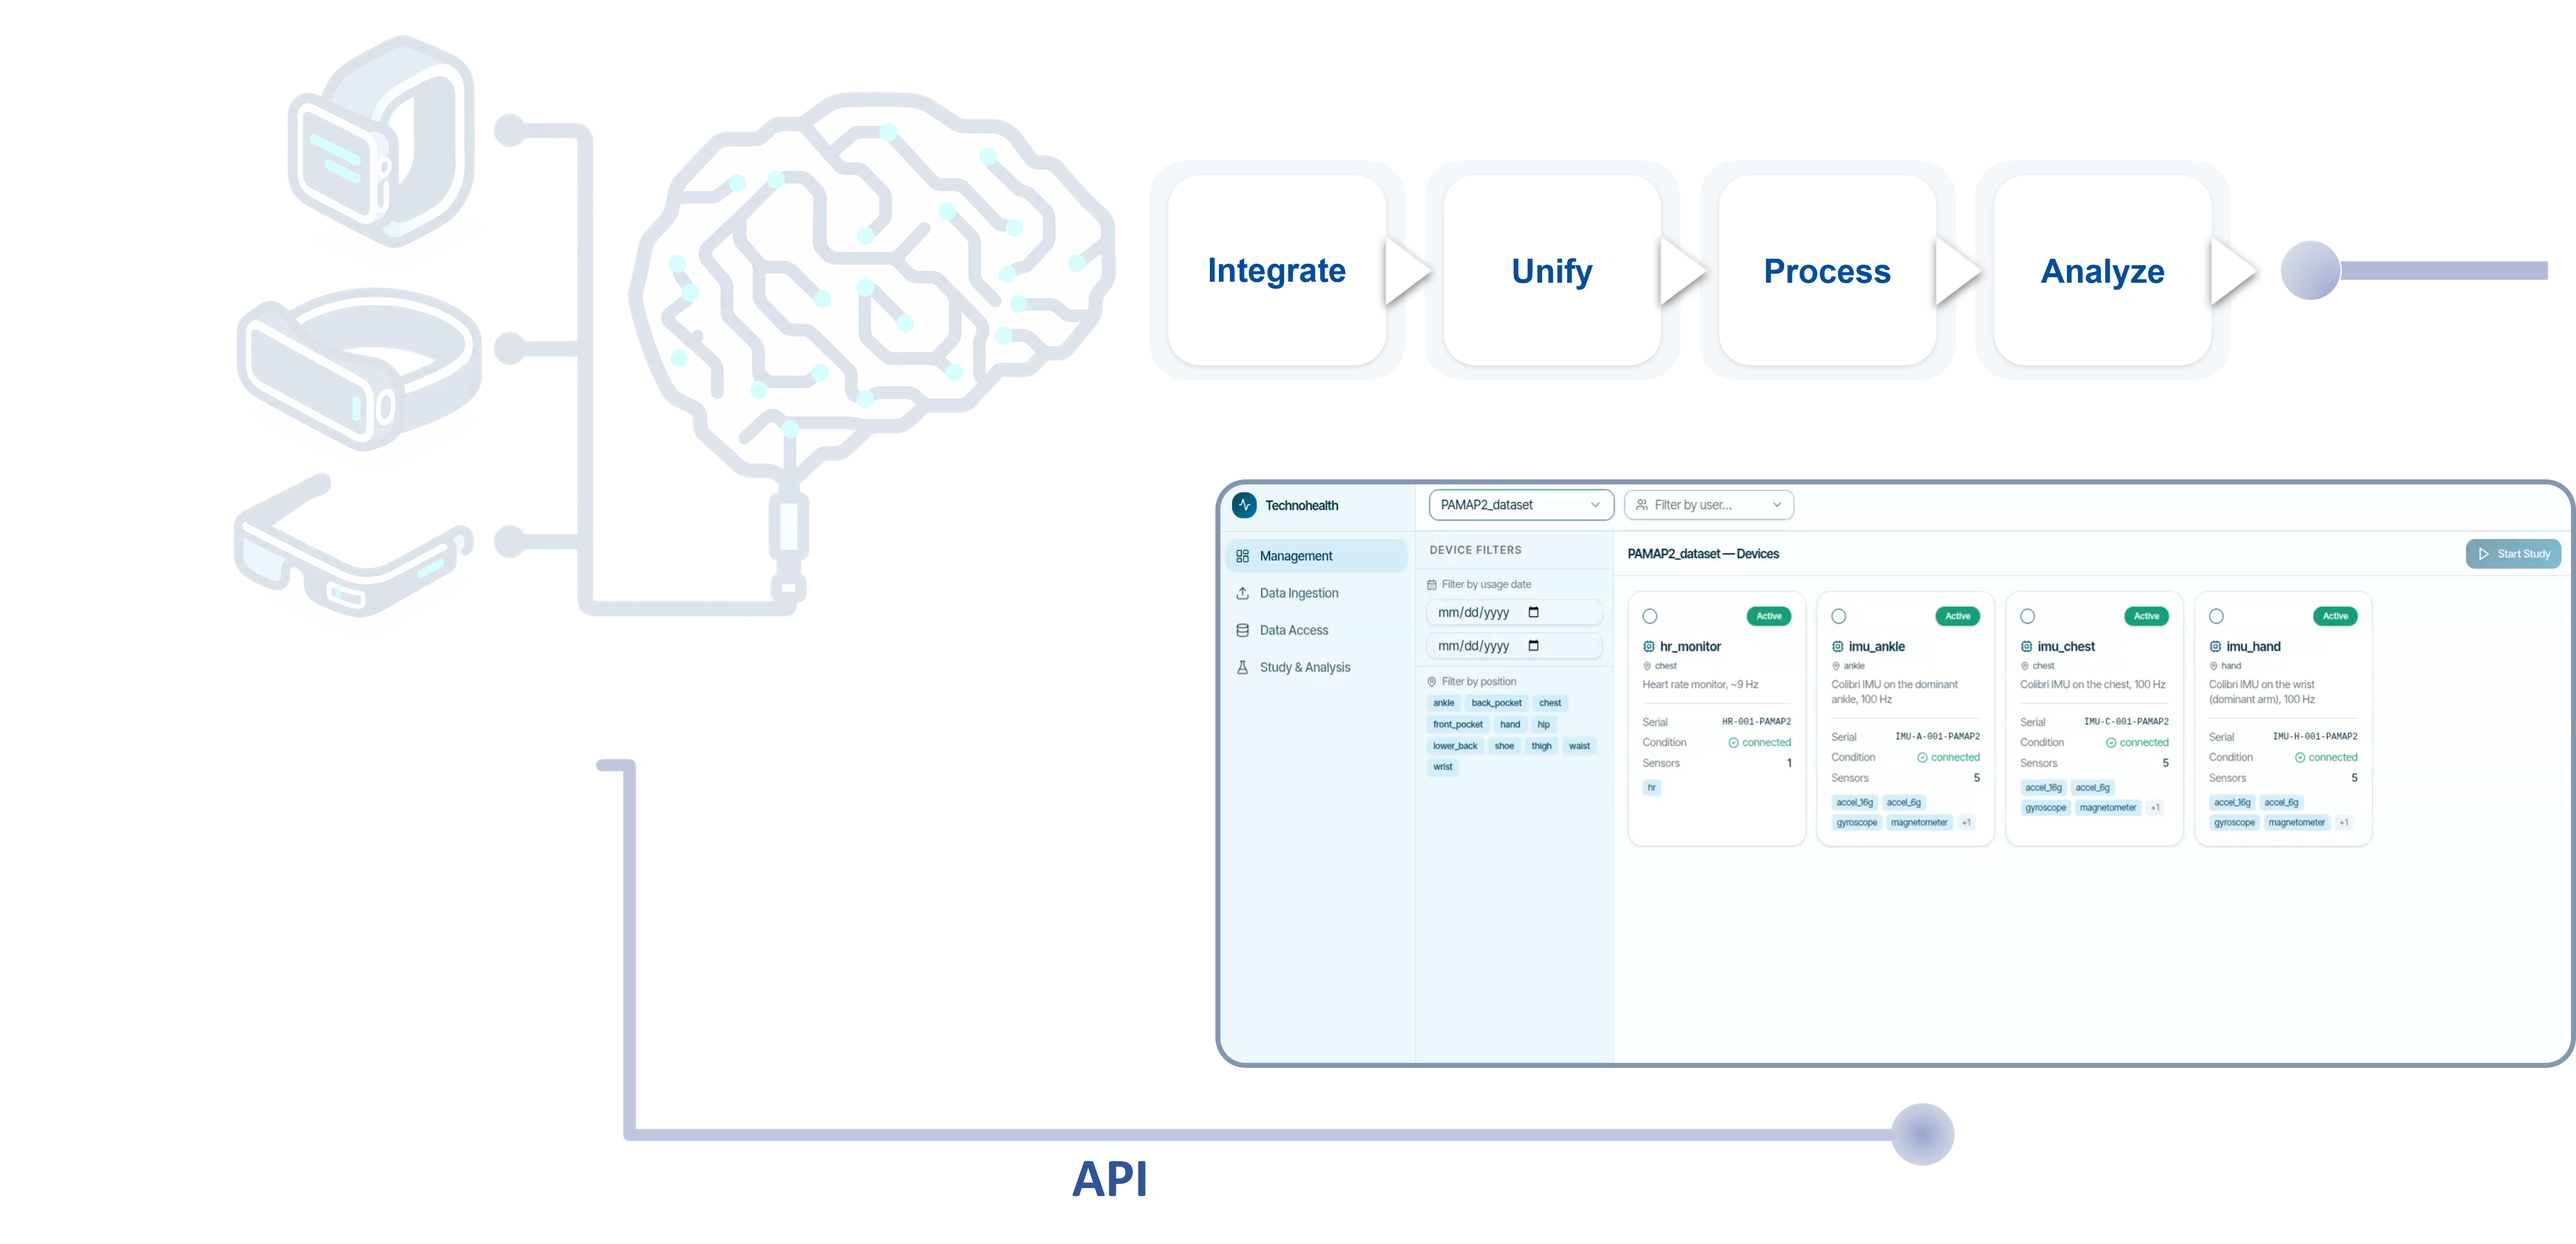
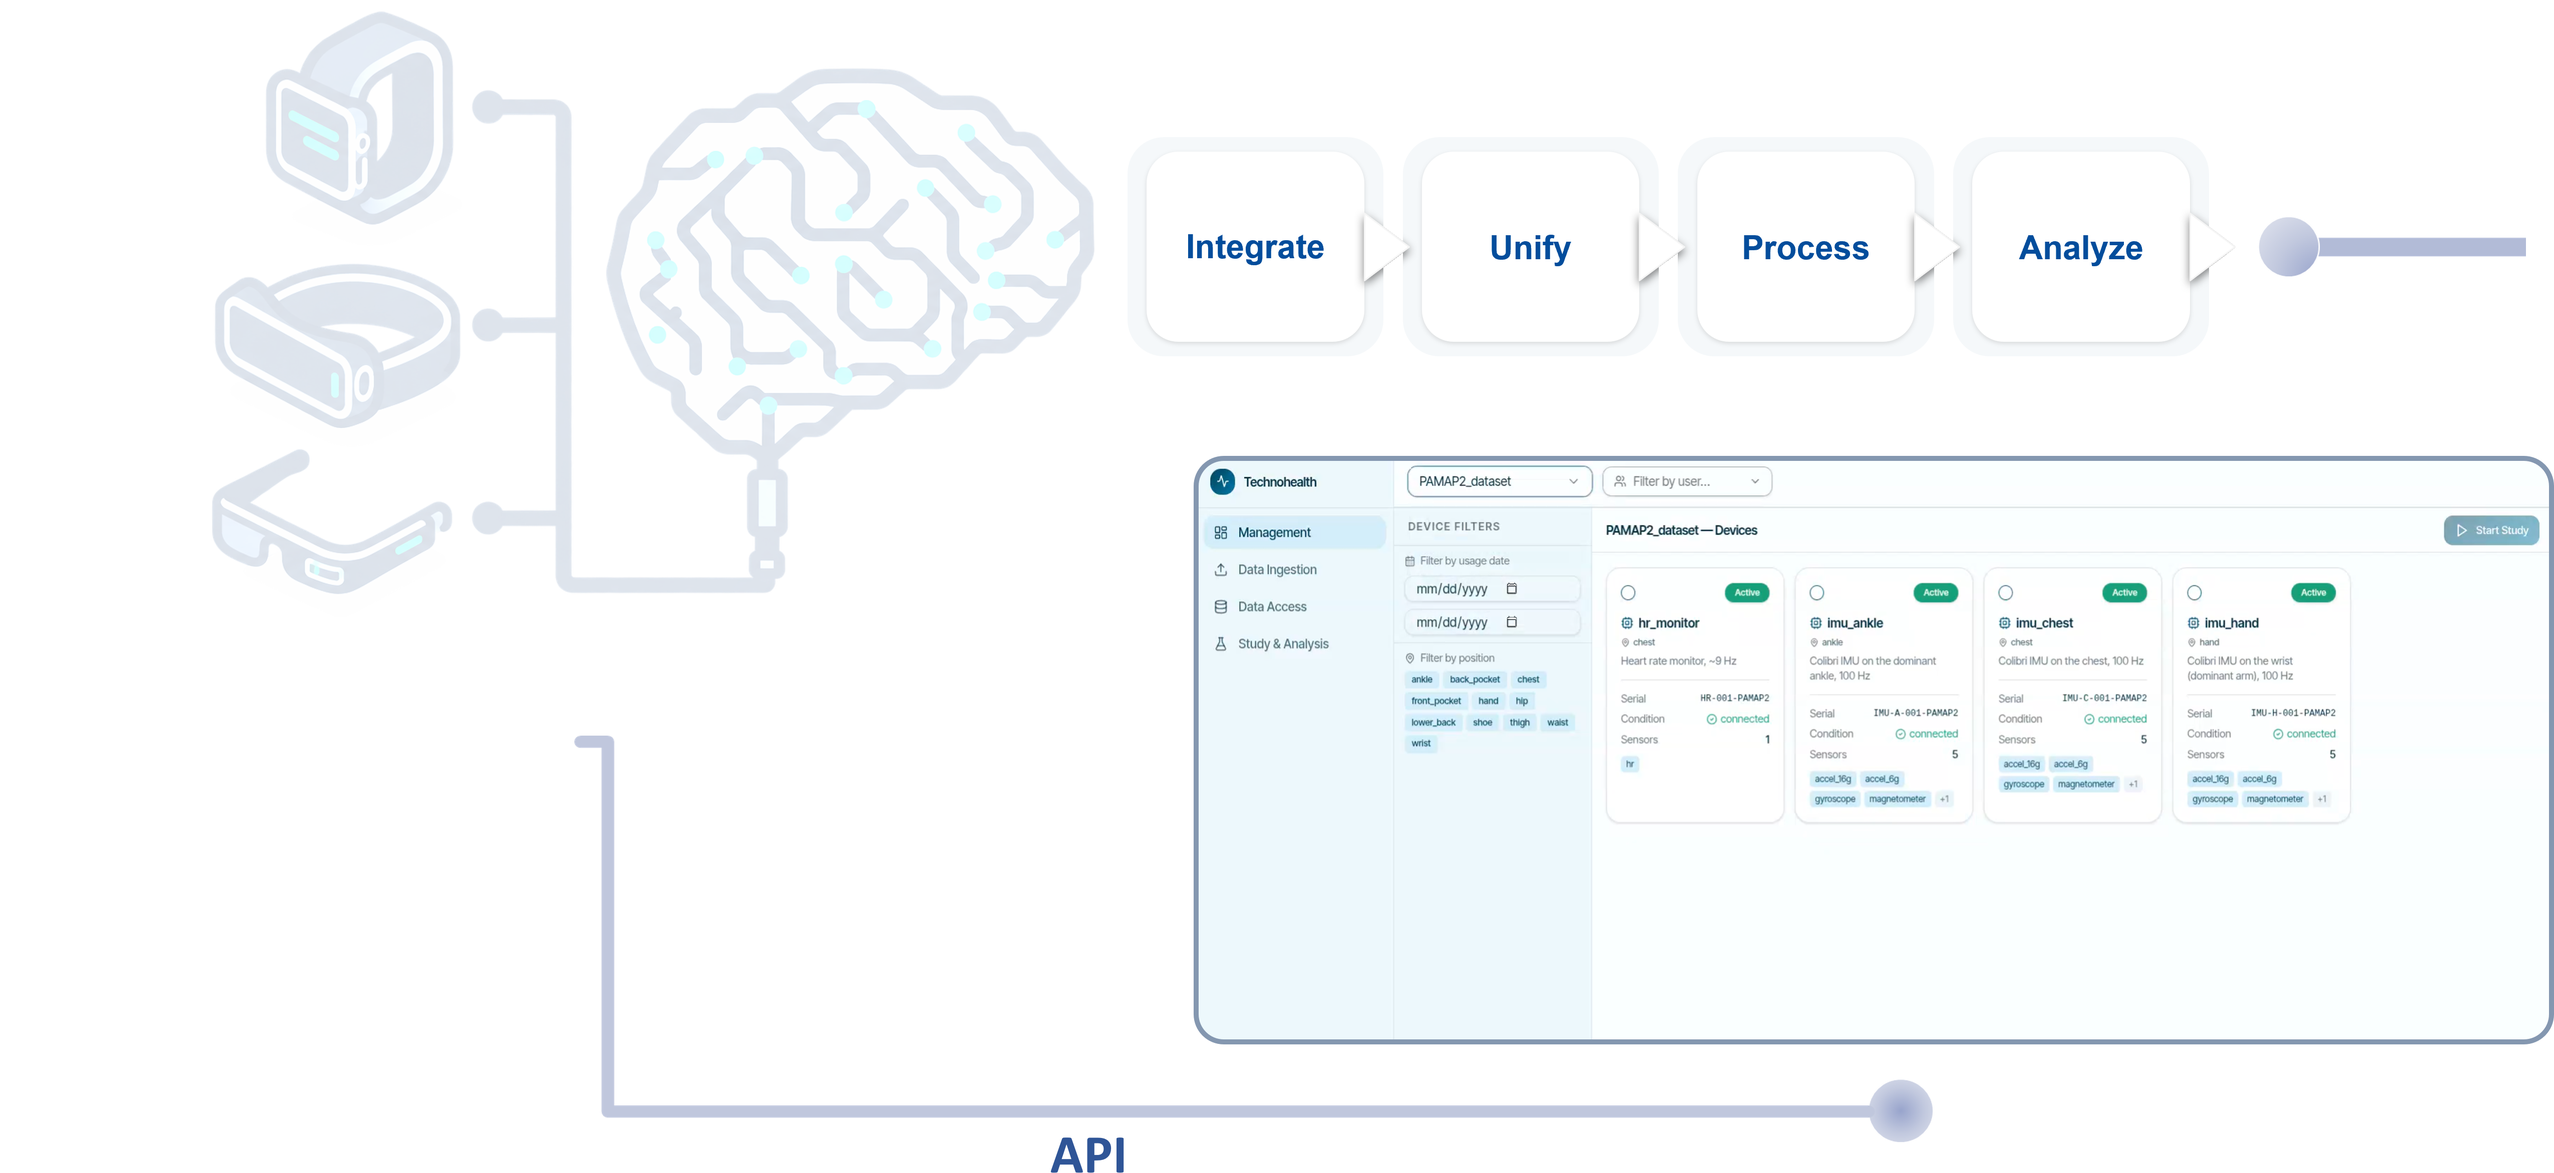
Remove Picture2 black background and tighten Google-style hero copy.

diff --git a/src/components/Hero.tsx b/src/components/Hero.tsx
@@ -185,37 +185,34 @@ export default function Hero() {
           </div>
         </div>
 
-        <div className="grid lg:grid-cols-3 gap-8 lg:gap-10 items-center mb-16">
-          <div
-            className="lg:col-span-2 overflow-hidden rounded-gcard border"
-            style={{ borderColor: 'var(--color-border)', boxShadow: 'var(--shadow-card)' }}
-          >
+        <div className="grid lg:grid-cols-3 gap-8 lg:gap-12 items-center mb-16">
+          <div className="lg:col-span-2">
             <img
               src="/Images/Picture2.png"
               alt="TechnoHealth data flow from wearables to API dashboard"
-              className="w-full h-auto object-contain bg-[#0a0a0a]"
+              className="w-full h-auto object-contain"
             />
           </div>
 
-          <ul className="space-y-8 lg:pl-2">
+          <ul className="space-y-7 lg:pl-2">
             {[
               { title: t.heroPoint1Title, desc: t.heroPoint1Desc },
               { title: t.heroPoint2Title, desc: t.heroPoint2Desc },
               { title: t.heroPoint3Title, desc: t.heroPoint3Desc },
             ].map((point) => (
-              <li key={point.title} className="flex gap-3 text-left">
-                <span
-                  className="mt-2 w-2 h-2 rounded-full shrink-0"
-                  style={{ backgroundColor: 'var(--color-brand-blue)' }}
-                />
-                <div>
-                  <p className="text-lg font-medium" style={{ color: 'var(--color-text)' }}>
-                    {point.title}
-                  </p>
-                  <p className="text-sm mt-1 leading-relaxed" style={{ color: 'var(--color-text-secondary)' }}>
-                    {point.desc}
-                  </p>
-                </div>
+              <li key={point.title} className="text-left">
+                <p
+                  className="text-base font-medium tracking-tight"
+                  style={{ color: 'var(--color-text)' }}
+                >
+                  {point.title}
+                </p>
+                <p
+                  className="text-sm mt-1 leading-relaxed"
+                  style={{ color: 'var(--color-text-secondary)' }}
+                >
+                  {point.desc}
+                </p>
               </li>
             ))}
           </ul>

diff --git a/src/config/siteCopy.ts b/src/config/siteCopy.ts
@@ -26,11 +26,11 @@ const siteCopy = {
     metricEfficiency: 'Efficiency Boost',
     metricEfficiencyDesc: 'Developer time saved',
     heroPoint1Title: 'One API',
-    heroPoint1Desc: 'to launch health data from any provider.',
+    heroPoint1Desc: 'Launch health data from any provider.',
     heroPoint2Title: 'Real-time updates',
-    heroPoint2Desc: 'on daily routines.',
+    heroPoint2Desc: 'Stay current with daily routines.',
     heroPoint3Title: 'Easy to implement',
-    heroPoint3Desc: 'and research.',
+    heroPoint3Desc: 'Built for product teams and research.',
 
     benefitsTitle: 'Get wearable data into your product faster',
     benefitsSub:
@@ -157,11 +157,11 @@ const siteCopy = {
     metricEfficiency: 'Gain d’efficacité',
     metricEfficiencyDesc: 'Temps de développement économisé',
     heroPoint1Title: 'Une API',
-    heroPoint1Desc: 'pour lancer les données de santé de n’importe quel fournisseur.',
+    heroPoint1Desc: 'Lancez les données de santé de n’importe quel fournisseur.',
     heroPoint2Title: 'Mises à jour en temps réel',
-    heroPoint2Desc: 'sur les routines quotidiennes.',
+    heroPoint2Desc: 'Suivez les routines quotidiennes au fil de l’eau.',
     heroPoint3Title: 'Facile à implémenter',
-    heroPoint3Desc: 'et à utiliser en recherche.',
+    heroPoint3Desc: 'Conçu pour les équipes produit et la recherche.',
 
     benefitsTitle: 'Intégrez les données wearables plus vite',
     benefitsSub:
